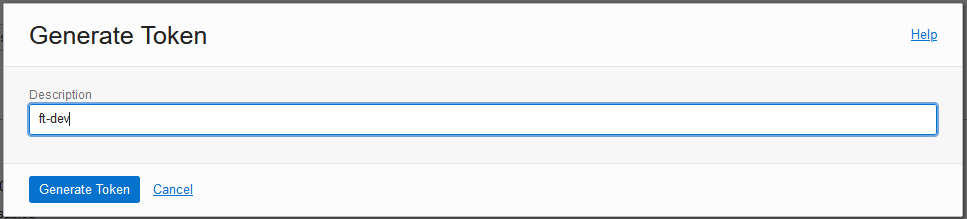
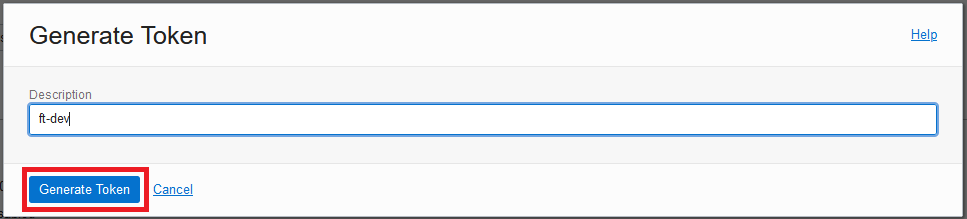
Lab. #4

Changed region(s): [[0.0, 0.7397, 0.1551, 0.9863]]

diff --git a/Lab. #4 - Automating Deployment/README.md b/Lab. #4 - Automating Deployment/README.md
@@ -1,6 +1,9 @@
 # Lab. #4 - Automating Deployment
 
-Nesta etapa construirá uma esteira de desenvolvimento capaz de entregar uma aplicação containerizada, de forma automatizada, a um cluster Kubernetes!
+Nesta etapa, você construirá uma esteira de desenvolvimento, com o serviço **OCI DevOps**, capaz de entregar uma aplicação containerizada, de forma automatizada, a um cluster Kubernetes!
+
+- 🌀 [Página oficial do OCI DevOps](https://www.oracle.com/br/devops/devops-service/)
+- 🧾 [Documentação do OCI DevOps](https://docs.oracle.com/pt-br/iaas/Content/devops/using/home.htm)
 
 **Você aprenderá todo o passo-a-passo dessa implementação:**
  - [Pre Reqs: Executar terraform de preparação de ambiente, e coletar informações relevantes ao processo](#PreReqs)
@@ -11,118 +14,113 @@ Nesta etapa construirá uma esteira de desenvolvimento capaz de entregar uma apl
  - [Passo 5: Configurar gatilho do fluxo e conectar pipelines de CI/CD](#Passo5)
  - [Passo 6: Execução e testes](#Passo6)
 
+ - - -
 
  ## <a name="PreReqs"></a> Pre Reqs: Executar terraform de preparação de ambiente, e coletar informações relevantes ao processo
 
- 1. Faça login em sua conta na Cloud. [link](https://www.oracle.com/cloud/sign-in.html) 
- 2. Execute o [Lab. #1](../Lab.%20%231%20-%20Resource%20Provisioning) deste workshop - *Execute apenas se você não o executou anteriormente*
- 3. No canto direito superior, clique no icone de perfil, e clique em seu usuário
+ 1. Faça o [login](https://www.oracle.com/cloud/sign-in.html) em sua conta na OCI. 
+ 2. Execute o [Lab. #1](../Lab.%20%231%20-%20Resource%20Provisioning), caso não o tenha executado anteriormente.
+ 3. No canto direito superior, clique no ícone de perfil, e clique em seu usuário.
 
  ![](./Images/001-LAB4.png)
 
- 4.  No canto esquerdo inferior, clique em **Auth Tokens**, em seguida clique em **Gerar Token**
+ 4.  No canto esquerdo inferior, clique em **Auth Tokens**, e em seguida clique em **Generate Token**
 
  ![](./Images/002-LAB4.png)
 
- 5. Dê uma descrição ao token, e clique em **Gerar Token**
+ 5. Dê uma descrição ao token, e clique em **Generate Token**.
 
  ![](./Images/003-LAB4.png)
 
- 6. **ATENÇÃO** - Copie o código gerado para um **bloco de notas**, se caso você perder esse código será necessario gera-lo novamente
+ 6. **ATENÇÃO** - Copie o token gerado para um **bloco de notas**. Caso ele se perca, será necessário gerá-lo novamente.
 
- 
  ![](./Images/004-LAB4.png)
 
+ - Durante todo este laboratório, utilizaremos este código quando for solicitada a informação de **Auth Token**.
 
- - Durante todo este laboratório, utilizaremos este código quando for solicitada a informação de **Auth Token**
+ 7. No menu, no canto esquerdo superior acesse: **Observability & Management** → **Application Performance** → **Administration**.
 
-
-
- 7. No menu, no canto esquerdo superior acesse: Observabilidade & Gerenciamento > Application Performance > Administração
-
- 
  ![](./Images/005-LAB4.png)
 
 
- 8.  No canto esquerdo inferior, em Escopo, valide se o compartimento correto está selecionado:
-
+ 8.  No canto esquerdo inferior, em **Scope**, valide se o **Comparment** correto está selecionado.
   
  ![](./Images/006-LAB4.png)
 
-
- 9. Selecione o Dominio listado: 
+ 9. Selecione o domínio APM listado:.
    
  ![](./Images/007-LAB4.png)
 
- 10. Copie as informações necessárias para o bloco de notas:
+ 10. Copie as informações necessárias para o bloco de notas.
 
-    - APM_ENDPOINT: Item 1 da imagem
-    - APM_PVDATAKEY: Item 2 da imagem
+- APM_ENDPOINT: Item 1 da imagem
+- APM_PVDATAKEY: Item 2 da imagem
 
 ![](./Images/008-LAB4.png)
 
- 11. Retorne a página de dominios
+ 11. Retorne para a página de dominios, clicando em **APM Domains**.
 
  ![](./Images/009-LAB4.png)
  
- 12. No canto esquerdo inferior, em Recursos clique em **Download APM Agent**
+ 12. No canto esquerdo inferior, em Resources, clique em **Download APM Agent**.
 
  ![](./Images/010-LAB4.png)
  
- 13. **Com o botão direito do mouse** clique no item listado, e selecione **Copiar Link**
+ 13. Com o botão direito do mouse, clique no item listado, e selecione **Copiar Link**.
 
  ![](./Images/011-LAB4.png)
 
- - APM_AGENT_URL: Cole o link copiado no bloco de notas 
+ - APM_AGENT_URL: Cole o link copiado no bloco de notas.
 
-Com isso cumprimos todos os pré requisitos para o laboratório:
+Com isso, cumprimos todos os pré-requisitos para o laboratório!
 
  ![](./Images/012-LAB4.png)
- 
+
+ - - -
 
  ## <a name="Passo1"></a> Passo 1: Clonar o repositório e movimentar conteúdo para repositório do projeto DevOps
 
- 1. Acesse o recurso de cloud shell
+ 1. Acesse o **Cloud Shell**, clicando no ícone como na imagem abaixo.
  
  ![](./Images/013-LAB4.png)
 
 
- 2. Clone o repositório do projeto 
+ 2. Clone o repositório do projeto.
 
  ```shell
  git clone https://github.com/CeInnovationTeam/BackendFTDev.git
  ```
 
- 3. Acesse: Menu > Serviços de Desenvolvedor > Devops > Projetos
+ 3. No 🍔 menu de hambúrguer, acesse: **Developer Services** → **DevOps** → **Projects**.
   
  ![](./Images/014-LAB4.png)
 
- 4. Acesse o projeto listado
+ 4. Acesse o projeto listado (criado no provisionamento do Resource Manager 😄).
   
  ![](./Images/015-LAB4.png)
 
- 5. Na página do projeto, clique em **Criar repositório**  
+ 5. Na página do projeto, clique em **Create repository**.
 
  ![](./Images/016-LAB4.png)
 
  6. Preencha o formulário da seguinte forma:
 
-   - Nome: ftRepo
-   - Description: (Defina uma descrição qualquer)
-   - Branch Default: main
+   - **Name:** ftRepo
+   - **Description:** (Defina uma descrição qualquer).
+   - **Default branch:** main
 
  ![](./Images/017-LAB4.png)
 
- 7. Na pagina do repositório recém criado, clique em HTTP e:
+ 7. Na página do repositório recém-criado, clique em **HTTPS** e:
 
-    - Copie para o bloco de notas a informação do usuário a ser usado para trabalhar com o git (Referênciaremos esta informação como **Usuário Git**)
-    - Execute o comando de git clone no CloudShell
+- [1] Copie para o bloco de notas a informação do usuário a ser utilizado para trabalhar com o git (**Usuário Git**).
+- [2] Copie o comando git clone e o execute no Cloud Shell.
 
  ![](./Images/018-LAB4.png)
 
- 8. No CloudShell, ao executar o comando, informe o **Usuario Git** recém copiado, e o seu **Auth Token** como senha
+ 8. No Cloud Shell, ao executar o comando, informe o **Usuario Git** recém-copiado, e o seu **Auth Token** como senha.
 
- 9. Neste momento o CloudShell deve possuir dois novos diretórios:
+ 9. Neste momento, o Cloud Shell deve possuir dois novos diretórios:
  - BackendFTDev
  - ftRepo
  
